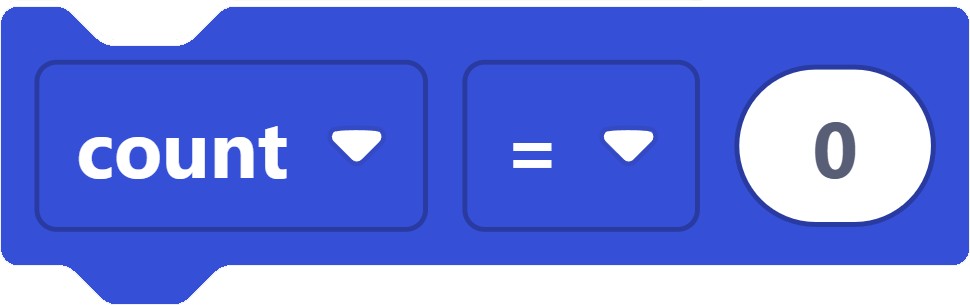
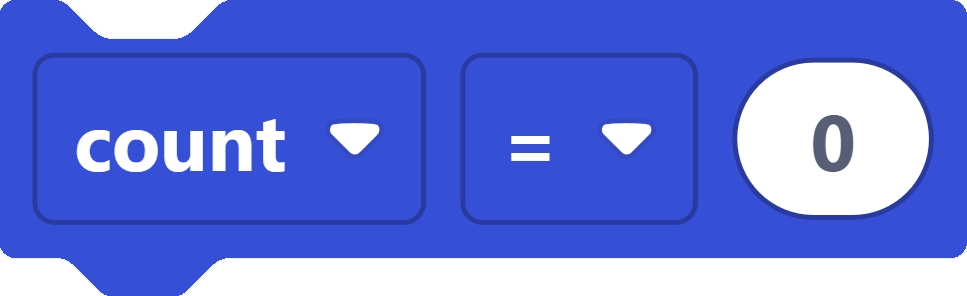
modifications to, pages ratios, blocks sizes, added sounds, tweaked pngs of blocks

diff --git a/edublocks_flutter/lib/Page Sections/canvas.dart b/edublocks_flutter/lib/Page Sections/canvas.dart
@@ -7,6 +7,7 @@ import 'package:flutter/services.dart';
 import 'package:provider/provider.dart';
 import '../Classes/MoveableBlock.dart';
 import 'package:collection/collection.dart';
+import 'package:just_audio/just_audio.dart';
 
 class canvasWidget extends StatefulWidget {
   canvasWidget({super.key});
@@ -18,11 +19,12 @@ class canvasWidget extends StatefulWidget {
 }
 
 class _canvasWidgetState extends State<canvasWidget> {
-  final double snapThreshold = 25;
-  final double snapThresholdNested = 25;
+  final double snapThreshold = 100;
+  final double snapThresholdNested = 75;
   final Map<int, GlobalKey> blockKeys = {};
   final Map<int, Offset> dragPositions =
       {}; // store latest drag global positions
+  final player = AudioPlayer();
 
   List<MoveableBlock> draggedChain = [];
 
@@ -69,7 +71,7 @@ class _canvasWidgetState extends State<canvasWidget> {
               MoveableBlock(
                 id: getNewID(),
                 type: block,
-                position: const Offset(200, 100),
+                position: const Offset(350, 100),
                 height: block.height,
                 nestedBlocks: [],
               ),
@@ -93,8 +95,8 @@ class _canvasWidgetState extends State<canvasWidget> {
           context,
           listen: false,
         ).getBlockByCode("# Start Here"),
-        position: const Offset(100, 0),
-        height: 100,
+        position: const Offset(50, 50),
+        height: 80,
         nestedBlocks: [],
       ),
       // MoveableBlock(
@@ -233,7 +235,7 @@ class _canvasWidgetState extends State<canvasWidget> {
     return traverse(startBlock);
   }
 
-  void onStartDrag(int id) {
+  Future<void> onStartDrag(int id) async {
     int? blockLineNumber = getBlockLineNumber(
       id,
       widget.blocks.firstWhere((b) => b.id == 0),
@@ -253,7 +255,12 @@ class _canvasWidgetState extends State<canvasWidget> {
         if (parent.nestedBlocks?[0].id == dragged.id) {parent.nestedBlocks = [];}
       } 
       // Remove the child block from the parent
-      if(parent.childId == dragged.id) {parent.childId = null;}
+      if(parent.childId == dragged.id) {
+        parent.childId = null;
+
+        await player.setAsset('sounds/disconnect.wav');
+        await player.play();
+        }
 
       // The dragged block is now not snapped to another block
       dragged.snappedTo = null;
@@ -281,7 +288,7 @@ class _canvasWidgetState extends State<canvasWidget> {
   }
 
   //Called by the gesture detector when a block is released
-  void onEndDrag(int id) {
+  Future<void> onEndDrag(int id) async {
     // Get the block
     final dragged = widget.blocks.firstWhere((b) => b.id == id);
     final draggedContext = blockKeys[dragged.id]?.currentContext;
@@ -338,7 +345,7 @@ class _canvasWidgetState extends State<canvasWidget> {
         if (childSnapXDistance.abs() < snapThreshold &&
             childSnapYDistance.abs() < snapThreshold) {
           setState(() {
-            dragged.position = Offset(target.position.dx, childSnapY + 20);
+            dragged.position = Offset(target.position.dx , childSnapY + 20);
             dragged.snappedTo = target.id;
             target.childId = dragged.id;
           });
@@ -356,6 +363,9 @@ class _canvasWidgetState extends State<canvasWidget> {
           for (var childBlock in draggedChainChildren) {
             onEndDrag(childBlock.id);
           }
+          
+          await player.setAsset('sounds/click.mp3');
+          await player.play();
         }
       } // Child snap - this is for re-snapping
       else if (target.childId == dragged.id) {

diff --git a/edublocks_flutter/lib/Widgets/blockLibraryScroller.dart b/edublocks_flutter/lib/Widgets/blockLibraryScroller.dart
@@ -28,7 +28,7 @@ class _blockLibraryScrollerState extends State<blockLibraryScroller> {
           child: GestureDetector(
             child: Image.asset(
               block.imageName,
-              height: 80,
+              height: block.height,
               fit: BoxFit.contain,
               errorBuilder: (context, error, stackTrace) {
                 return const Icon(Icons.broken_image, size: 80);

diff --git a/edublocks_flutter/lib/style.dart b/edublocks_flutter/lib/style.dart
@@ -6,9 +6,9 @@ const bool isProduction = true;
 
 // Size of each page section on screen
 // Size calculated as ```MediaQuery.sizeOf(context).width / sideBarWidth;```
-const sideBarWidth = 3;
+const sideBarWidth = 3.75; //was 3
 const canvasWidth = 1;
-const codeBarWidth = 3;
+const codeBarWidth = 3.25; //was 3
 
 // Colour of page sections
 const sideBarColour = Color(0xffffffff);

diff --git a/edublocks_flutter/lib/Classes/Block.dart b/edublocks_flutter/lib/Classes/Block.dart
@@ -31,7 +31,7 @@ class Block {
       condition: json['condition'],
       hasChildren: json['hasChildren'],
       priorityBuild: json['priorityBuild'] ?? false,
-      height: json['height'] ?? 100
+      height: json['height'] ?? 80
     );
   }
 }
